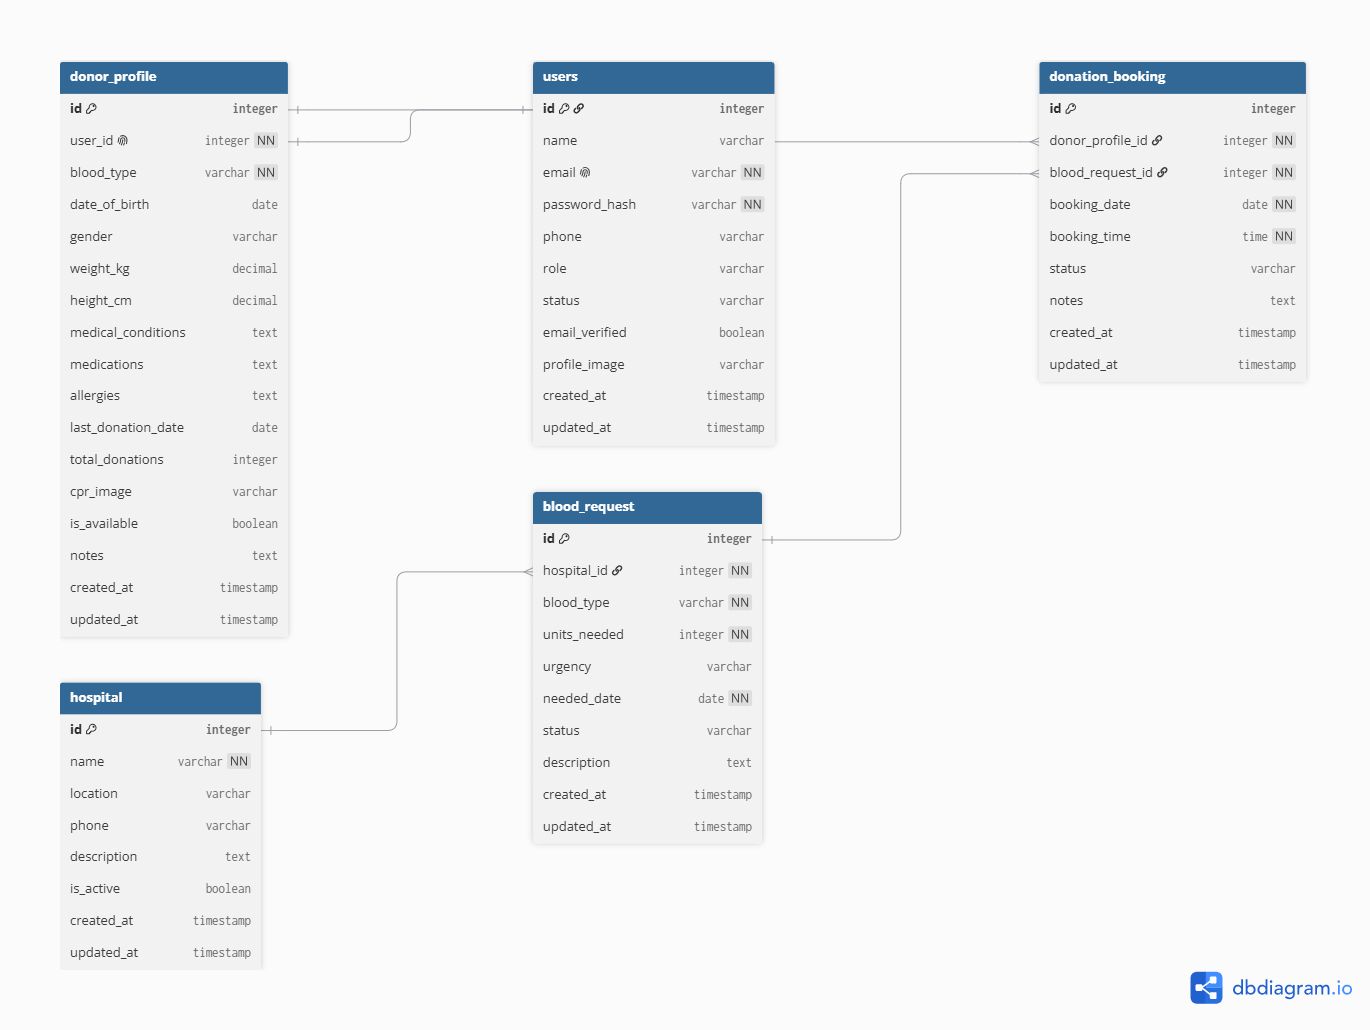
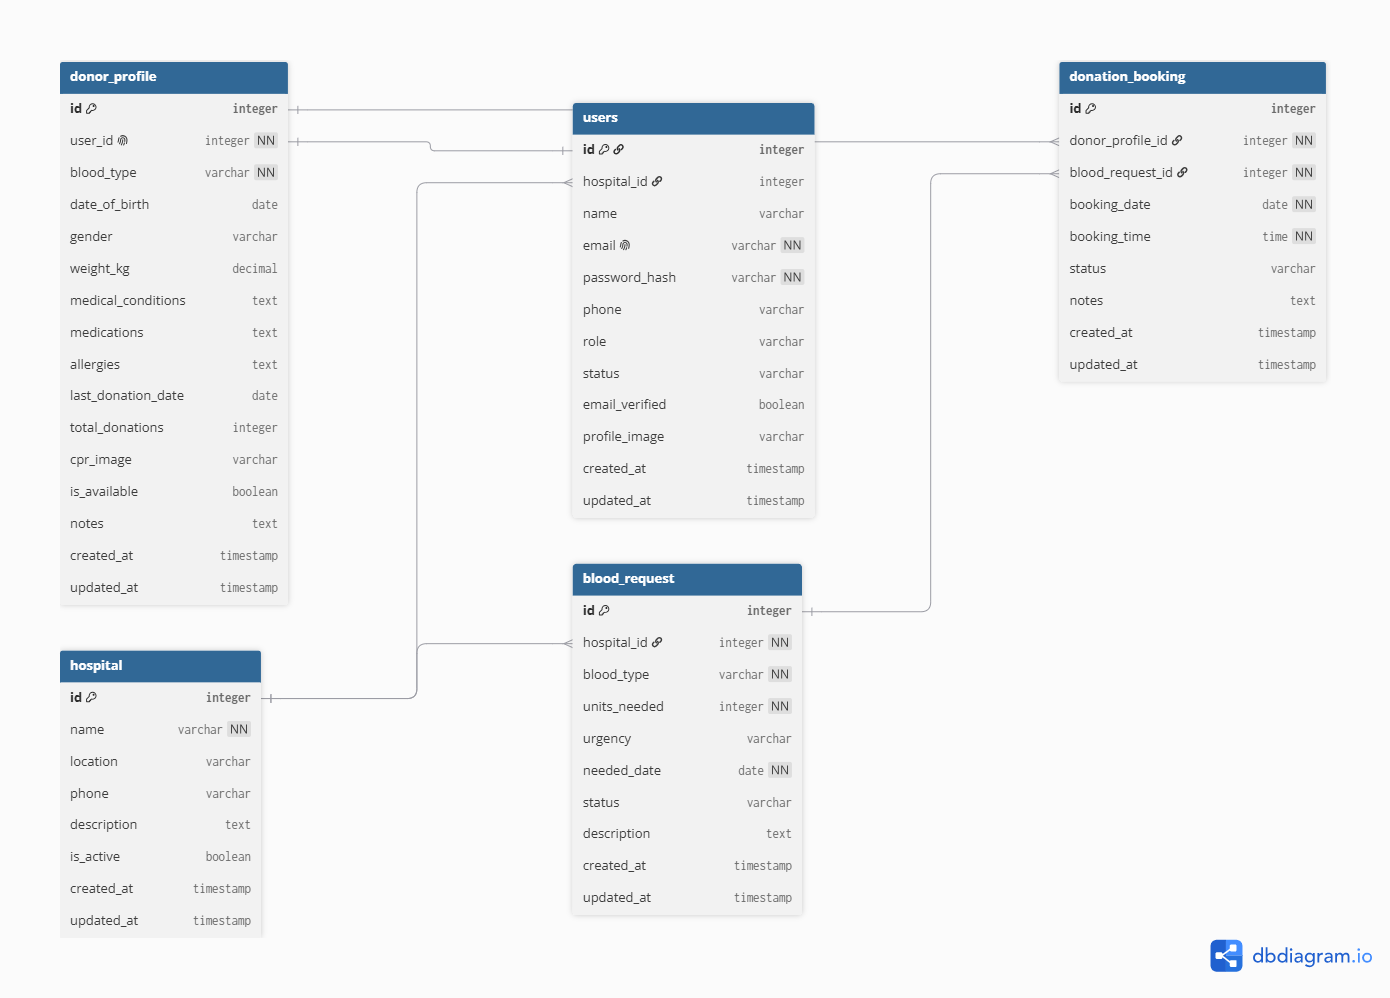
KAN-7 Update database ERD relationships

diff --git a/README.md b/README.md
@@ -80,6 +80,6 @@ The following features are planned for future versions:
 
 ## Database ERD
 
-The following Entity Relationship Diagram represents the initial database design for the Healthcare Support System.
+The following Entity Relationship Diagram represents the database design for the Healthcare Support System.
 
 ![Healthcare Support System ERD](docs/healthcare-support-erd.png)
